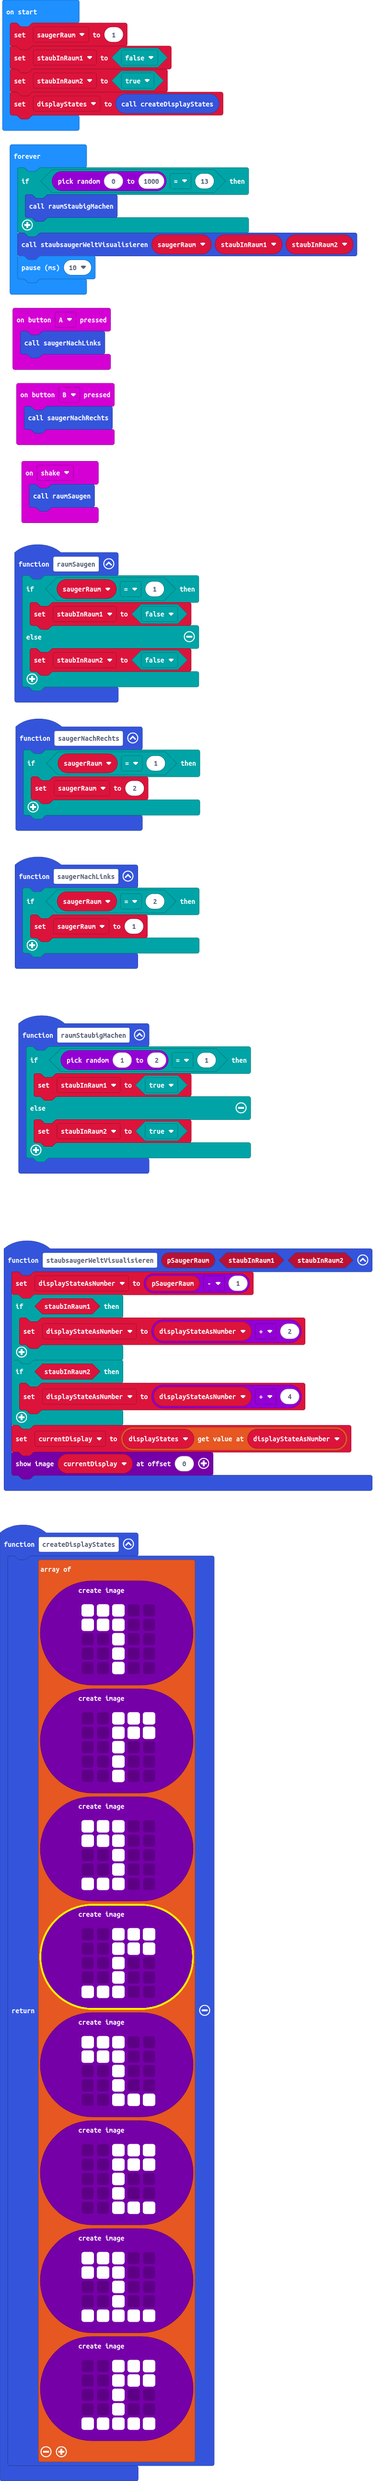
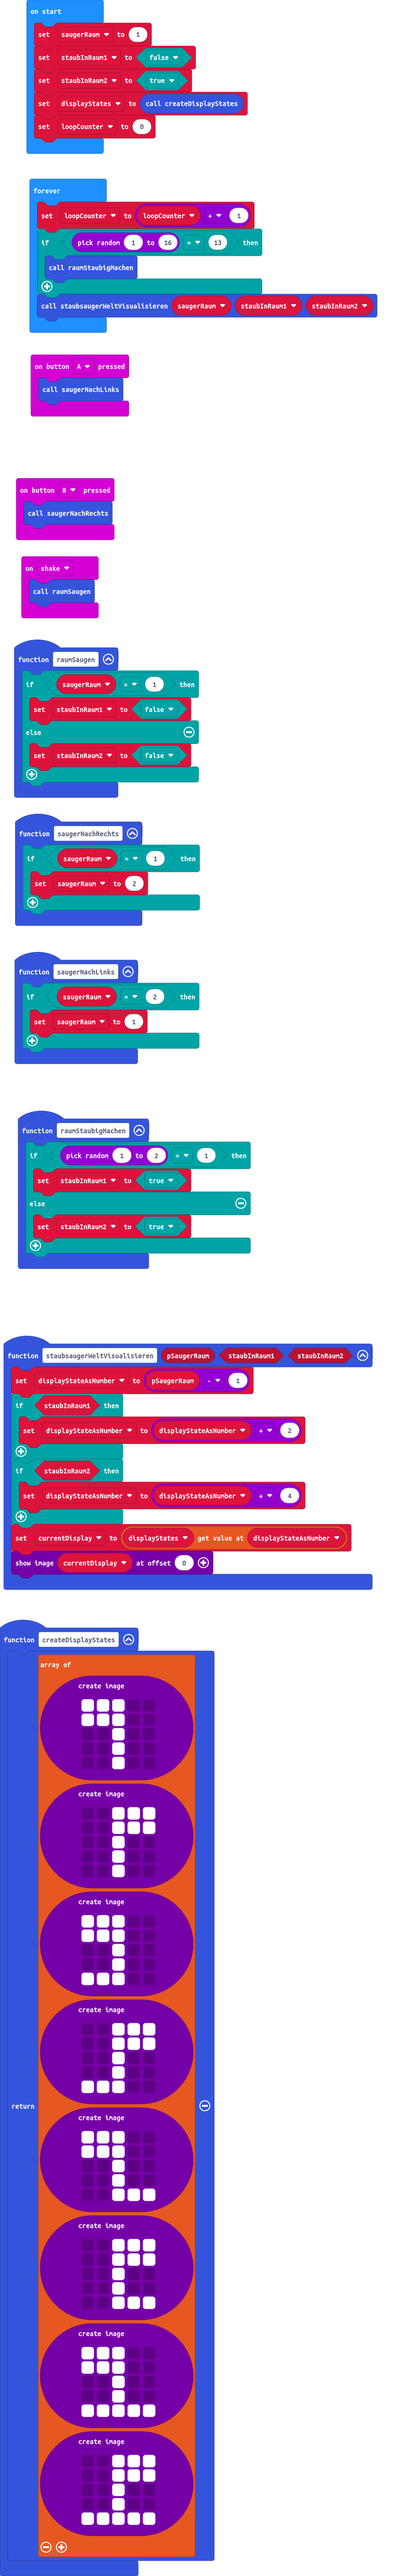
Remove wait, introduce loopCounter

diff --git a/main.ts b/main.ts
@@ -112,10 +112,11 @@ saugerRaum = 1
 staubInRaum1 = false
 staubInRaum2 = true
 displayStates = createDisplayStates()
+let loopCounter = 0
 basic.forever(function () {
-    if (randint(0, 1000) == 13) {
+    loopCounter = loopCounter + 1
+    if (randint(1, 16) == 13) {
         raumStaubigMachen()
     }
     staubsaugerWeltVisualisieren(saugerRaum, staubInRaum1, staubInRaum2)
-    basic.pause(10)
 })
